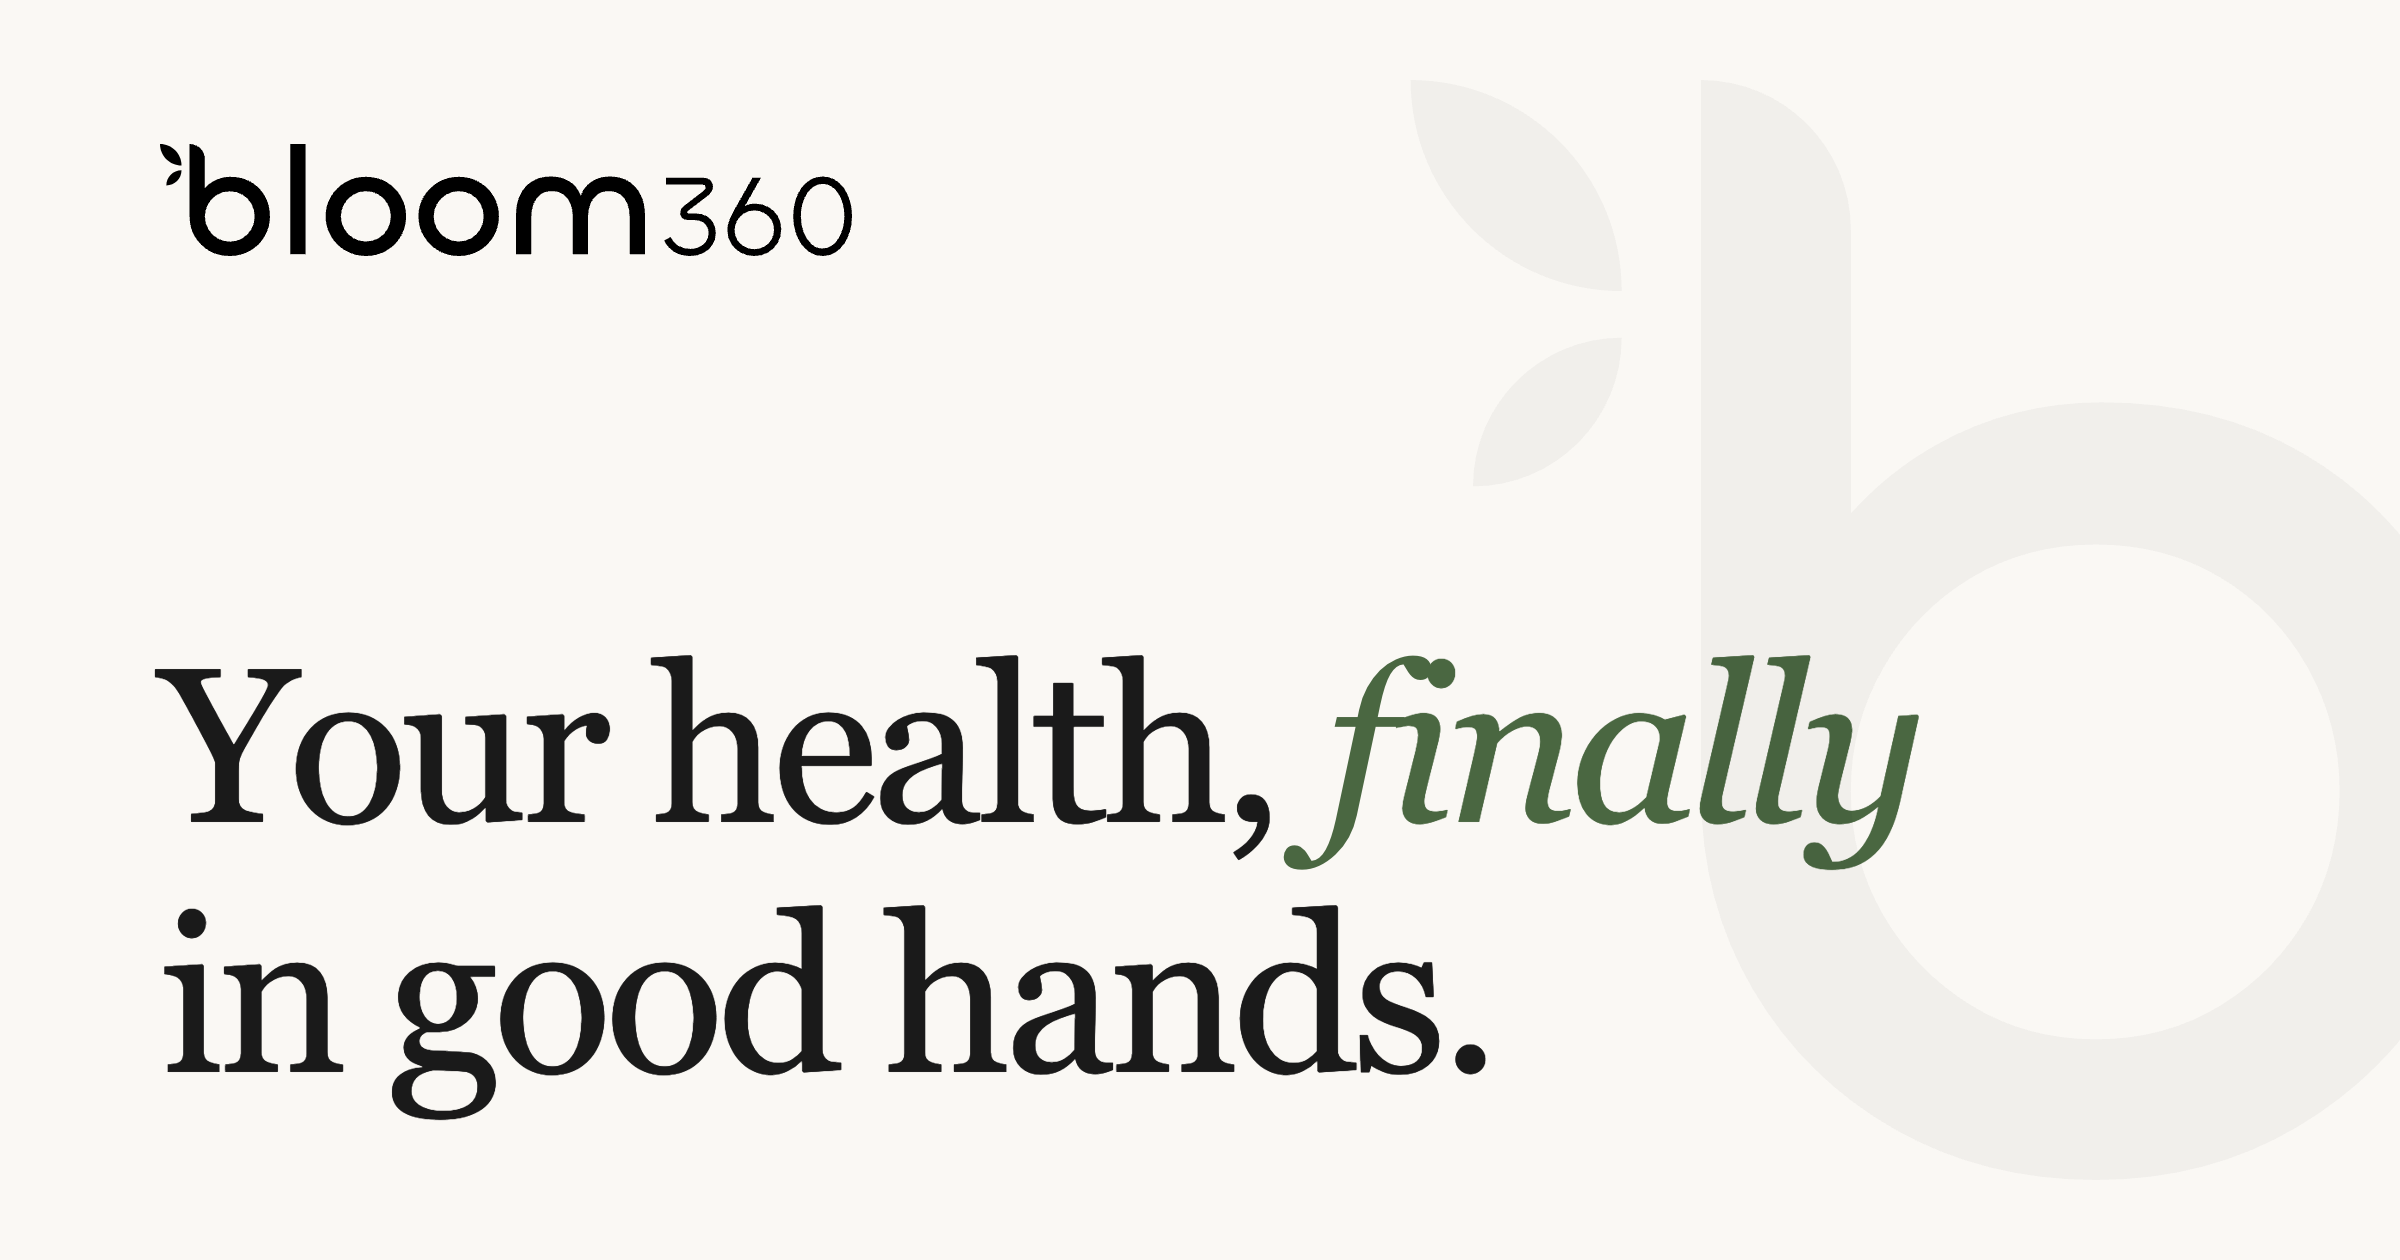
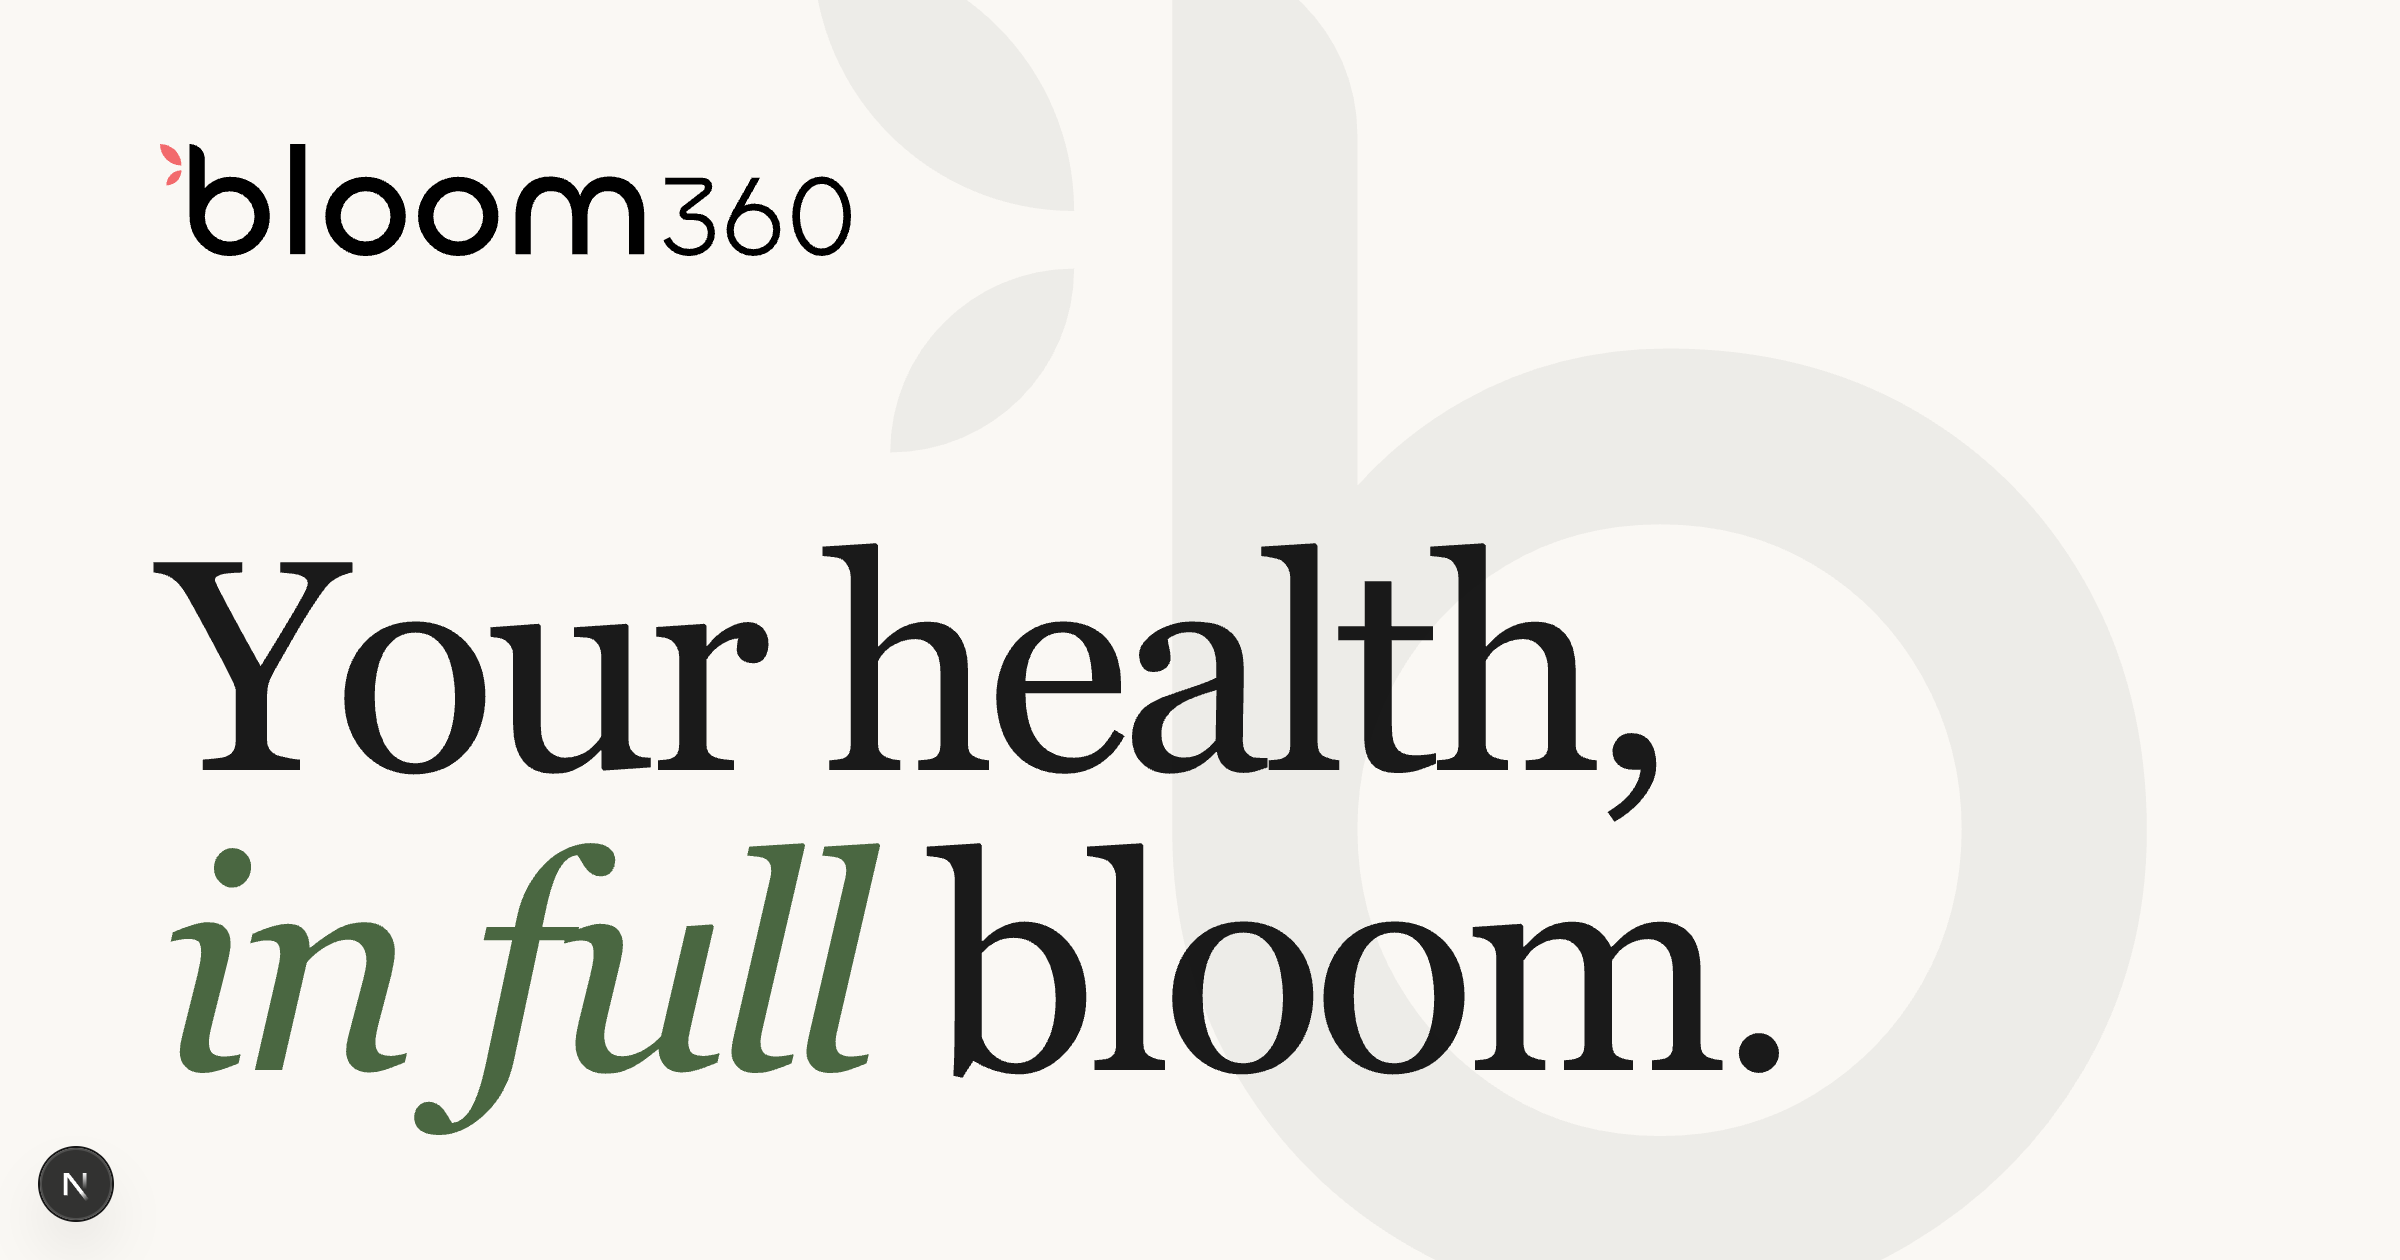
Refresh OG thumbnail
Updates the og-render page so the headline sits on two lines ("Your
health," / "in full bloom.") matching the hero, bumps the type size,
and enlarges the background b-emblem so the card feels more balanced.
Regenerates public/og.png from the updated render.

Changed region(s): [[0.0625, 0.4333, 0.8125, 0.8976], [0.0, 0.8976, 0.0625, 0.9595]]

diff --git a/src/app/og-render/page.tsx b/src/app/og-render/page.tsx
@@ -48,12 +48,12 @@ export default function OGRender() {
           alt=""
           style={{
             position: "absolute",
-            right: -50,
+            right: 120,
             top: "50%",
             transform: "translateY(-50%)",
-            width: 550,
-            height: 550,
-            opacity: 0.035,
+            width: 680,
+            height: 680,
+            opacity: 0.05,
           }}
         />
 
@@ -66,43 +66,38 @@ export default function OGRender() {
           style={{
             display: "flex",
             flexDirection: "column",
-            gap: 4,
+            gap: 0,
           }}
         >
           <div
             className="font-serif"
             style={{
-              fontSize: 110,
+              fontSize: 150,
               fontWeight: 400,
               color: "#1a1a1a",
-              lineHeight: 1.1,
-              letterSpacing: "-0.03em",
+              lineHeight: 1,
+              letterSpacing: "-0.035em",
             }}
           >
             Your health,
           </div>
           <div
-            className="font-serif italic"
-            style={{
-              fontSize: 110,
-              fontWeight: 400,
-              color: "#4a6741",
-              lineHeight: 1.1,
-              letterSpacing: "-0.03em",
-            }}
-          >
-            in full
-          </div>
-          <div
             className="font-serif"
             style={{
-              fontSize: 110,
+              fontSize: 150,
               fontWeight: 400,
               color: "#1a1a1a",
-              lineHeight: 1.1,
-              letterSpacing: "-0.03em",
+              lineHeight: 1,
+              letterSpacing: "-0.035em",
+              whiteSpace: "nowrap",
             }}
           >
+            <span
+              className="italic"
+              style={{ color: "#4a6741" }}
+            >
+              in full
+            </span>{" "}
             bloom.
           </div>
         </div>
